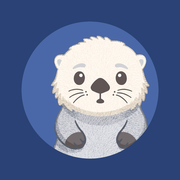
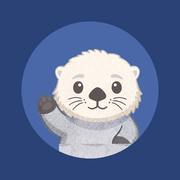
v1.224.2 App 圖示改用揮手 Ottie

Changed region(s): [[0.1944, 0.1944, 0.8333, 0.8611]]

diff --git a/index.html b/index.html
@@ -6,7 +6,7 @@
        打開檔案唔使拉就見到，方便快速核對版本）
        ======================================== -->
   <script>
-    window.APP_VERSION = "v1.224.1"; // 每次推送 GitHub 前，喺呢度改版號
+    window.APP_VERSION = "v1.224.2"; // 每次推送 GitHub 前，喺呢度改版號
   </script>
 
   <meta charset="UTF-8">
@@ -55,7 +55,7 @@
   <link rel="icon" href="favicon.ico?v=2" sizes="any">
   <link rel="icon" type="image/png" sizes="32x32" href="favicon-32.png?v=2">
   <link rel="icon" type="image/png" sizes="16x16" href="favicon-16.png?v=2">
-  <link rel="apple-touch-icon" sizes="180x180" href="apple-touch-icon.png?v=2">
+  <link rel="apple-touch-icon" sizes="180x180" href="apple-touch-icon.png?v=3">
   <link rel="icon" type="image/png" sizes="192x192" href="favicon-192.png?v=2">
   <meta name="theme-color" content="#2A4275">
   <!-- v1.208.0：PWA（加至主畫面後以全螢幕 App 形式開啟） -->
